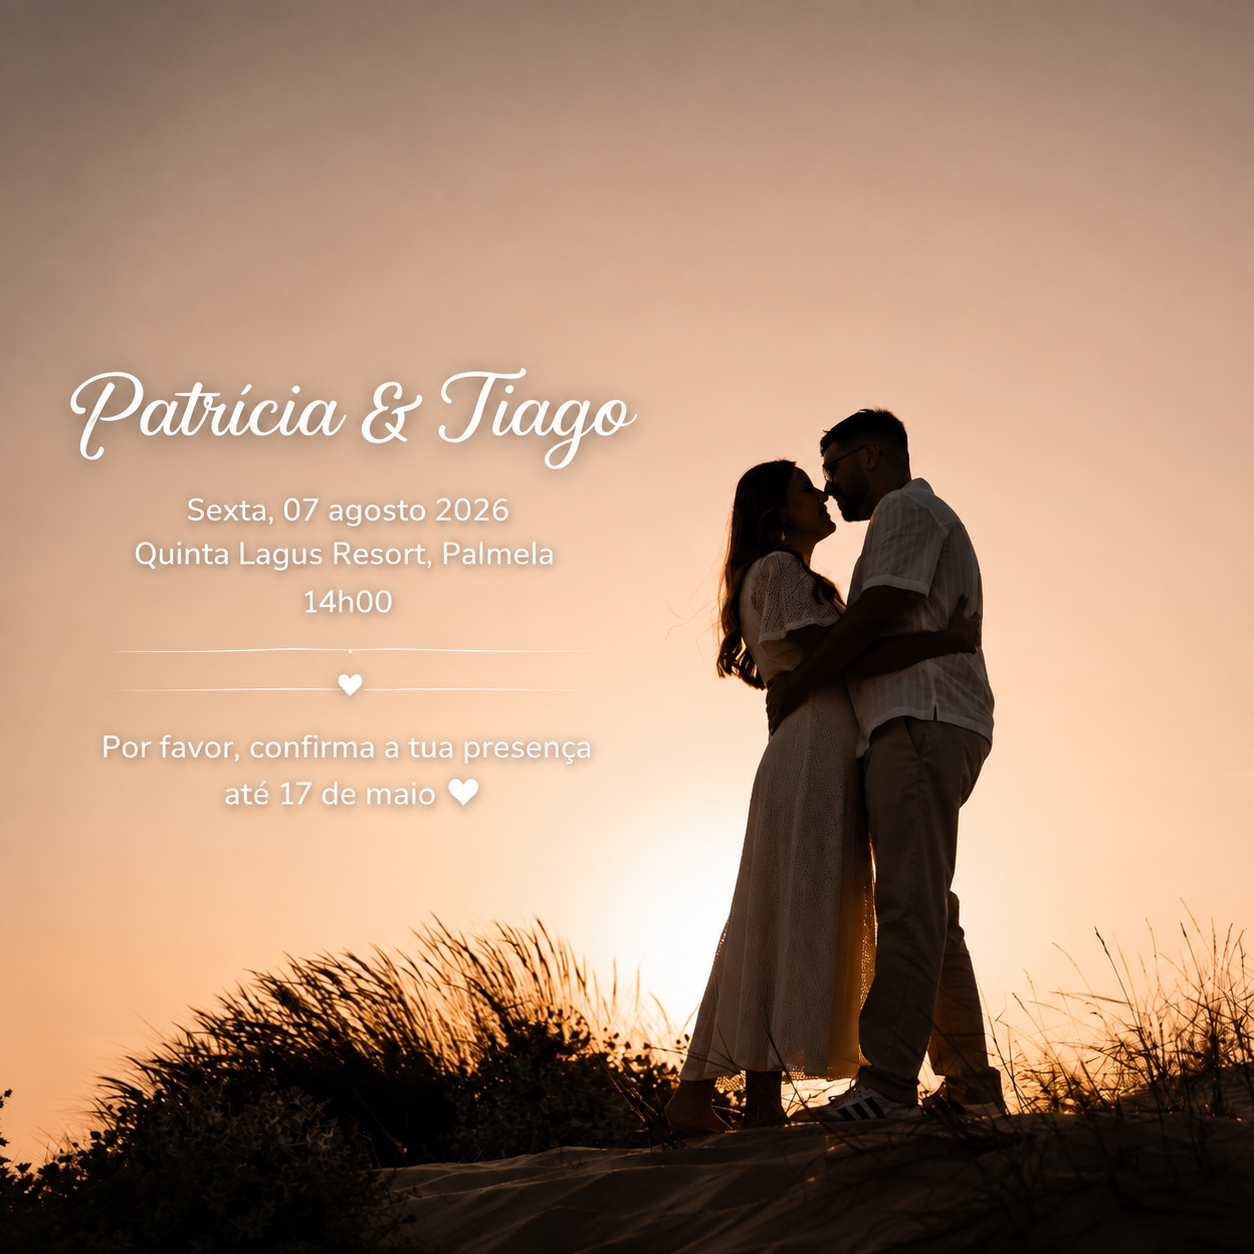
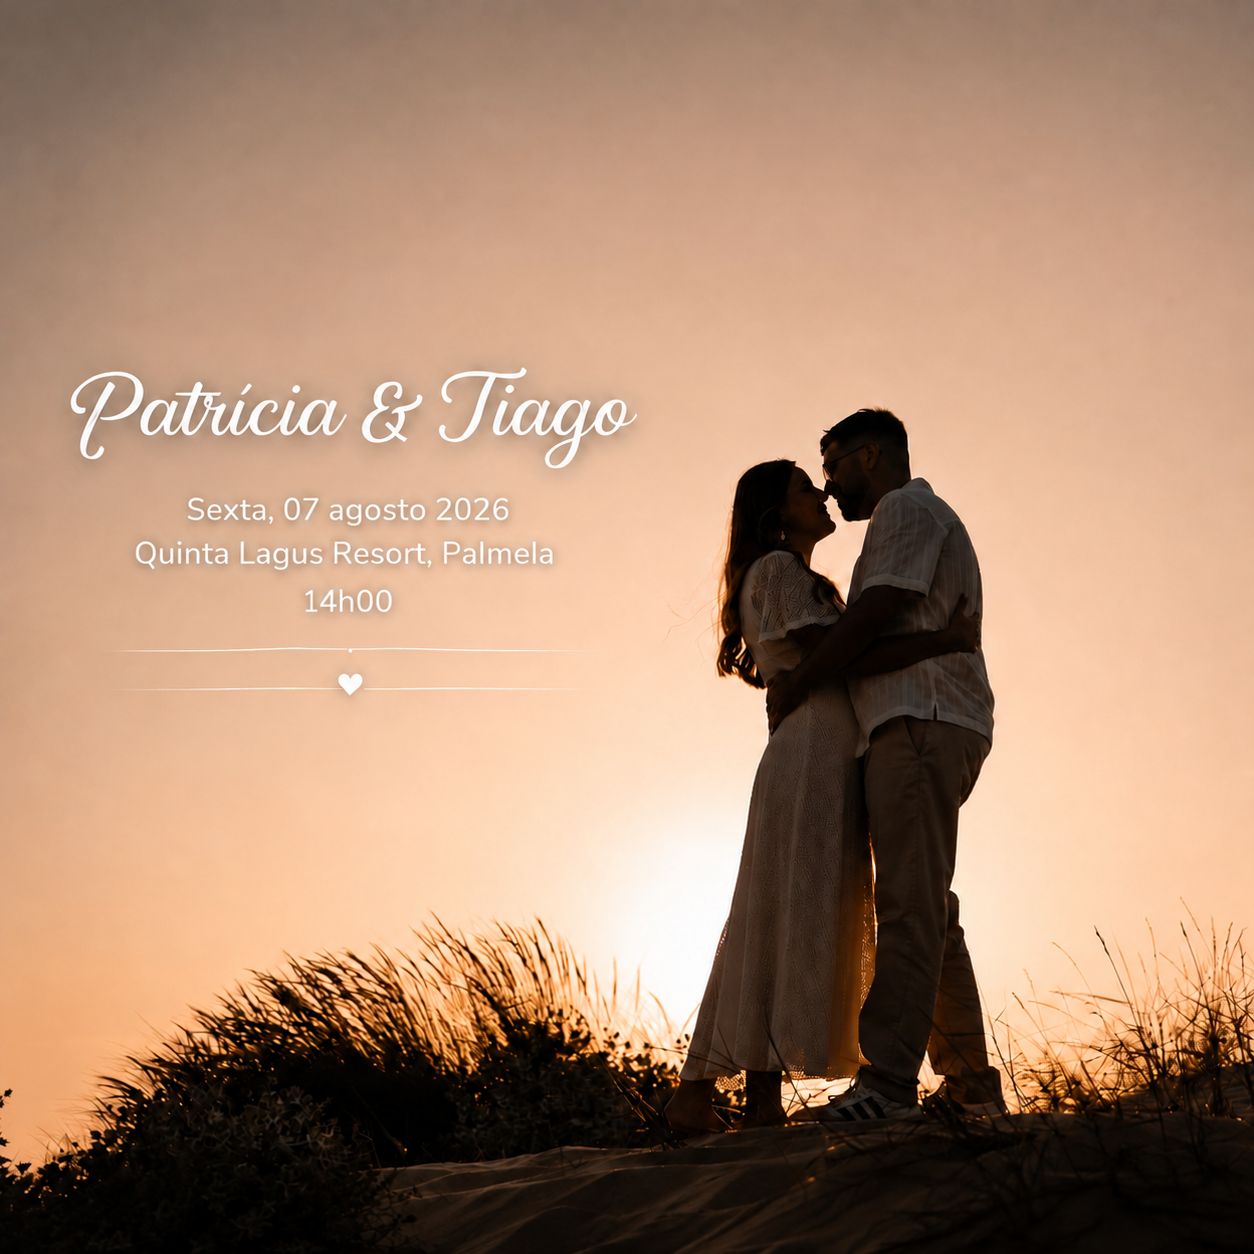
update header

diff --git a/index.html b/index.html
@@ -12,8 +12,8 @@
   <meta property="og:description"
     content="Convite de Casamento Patrícia & Tiago - Sexta-feira, 07 agosto 2026 em Quinta Lagus Resort, Palmela.">
   <meta property="og:locale" content="id_ID" />
-  <!-- <meta property="og:image"
-    content="https://simple-wedding-invitation.dae.ng/image/samantha-gades-x40Q9jrEVT0-unsplash.jpg"> -->
+  <meta property="og:image"
+    content="https://www.patriciatiago.party/image/header.png">
   <meta property="og:url" content="https://www.patriciatiago.party/">
   <meta name="twitter:card" content="summary_large_image">
   <!-- Bulma Version 0.8.x-->
